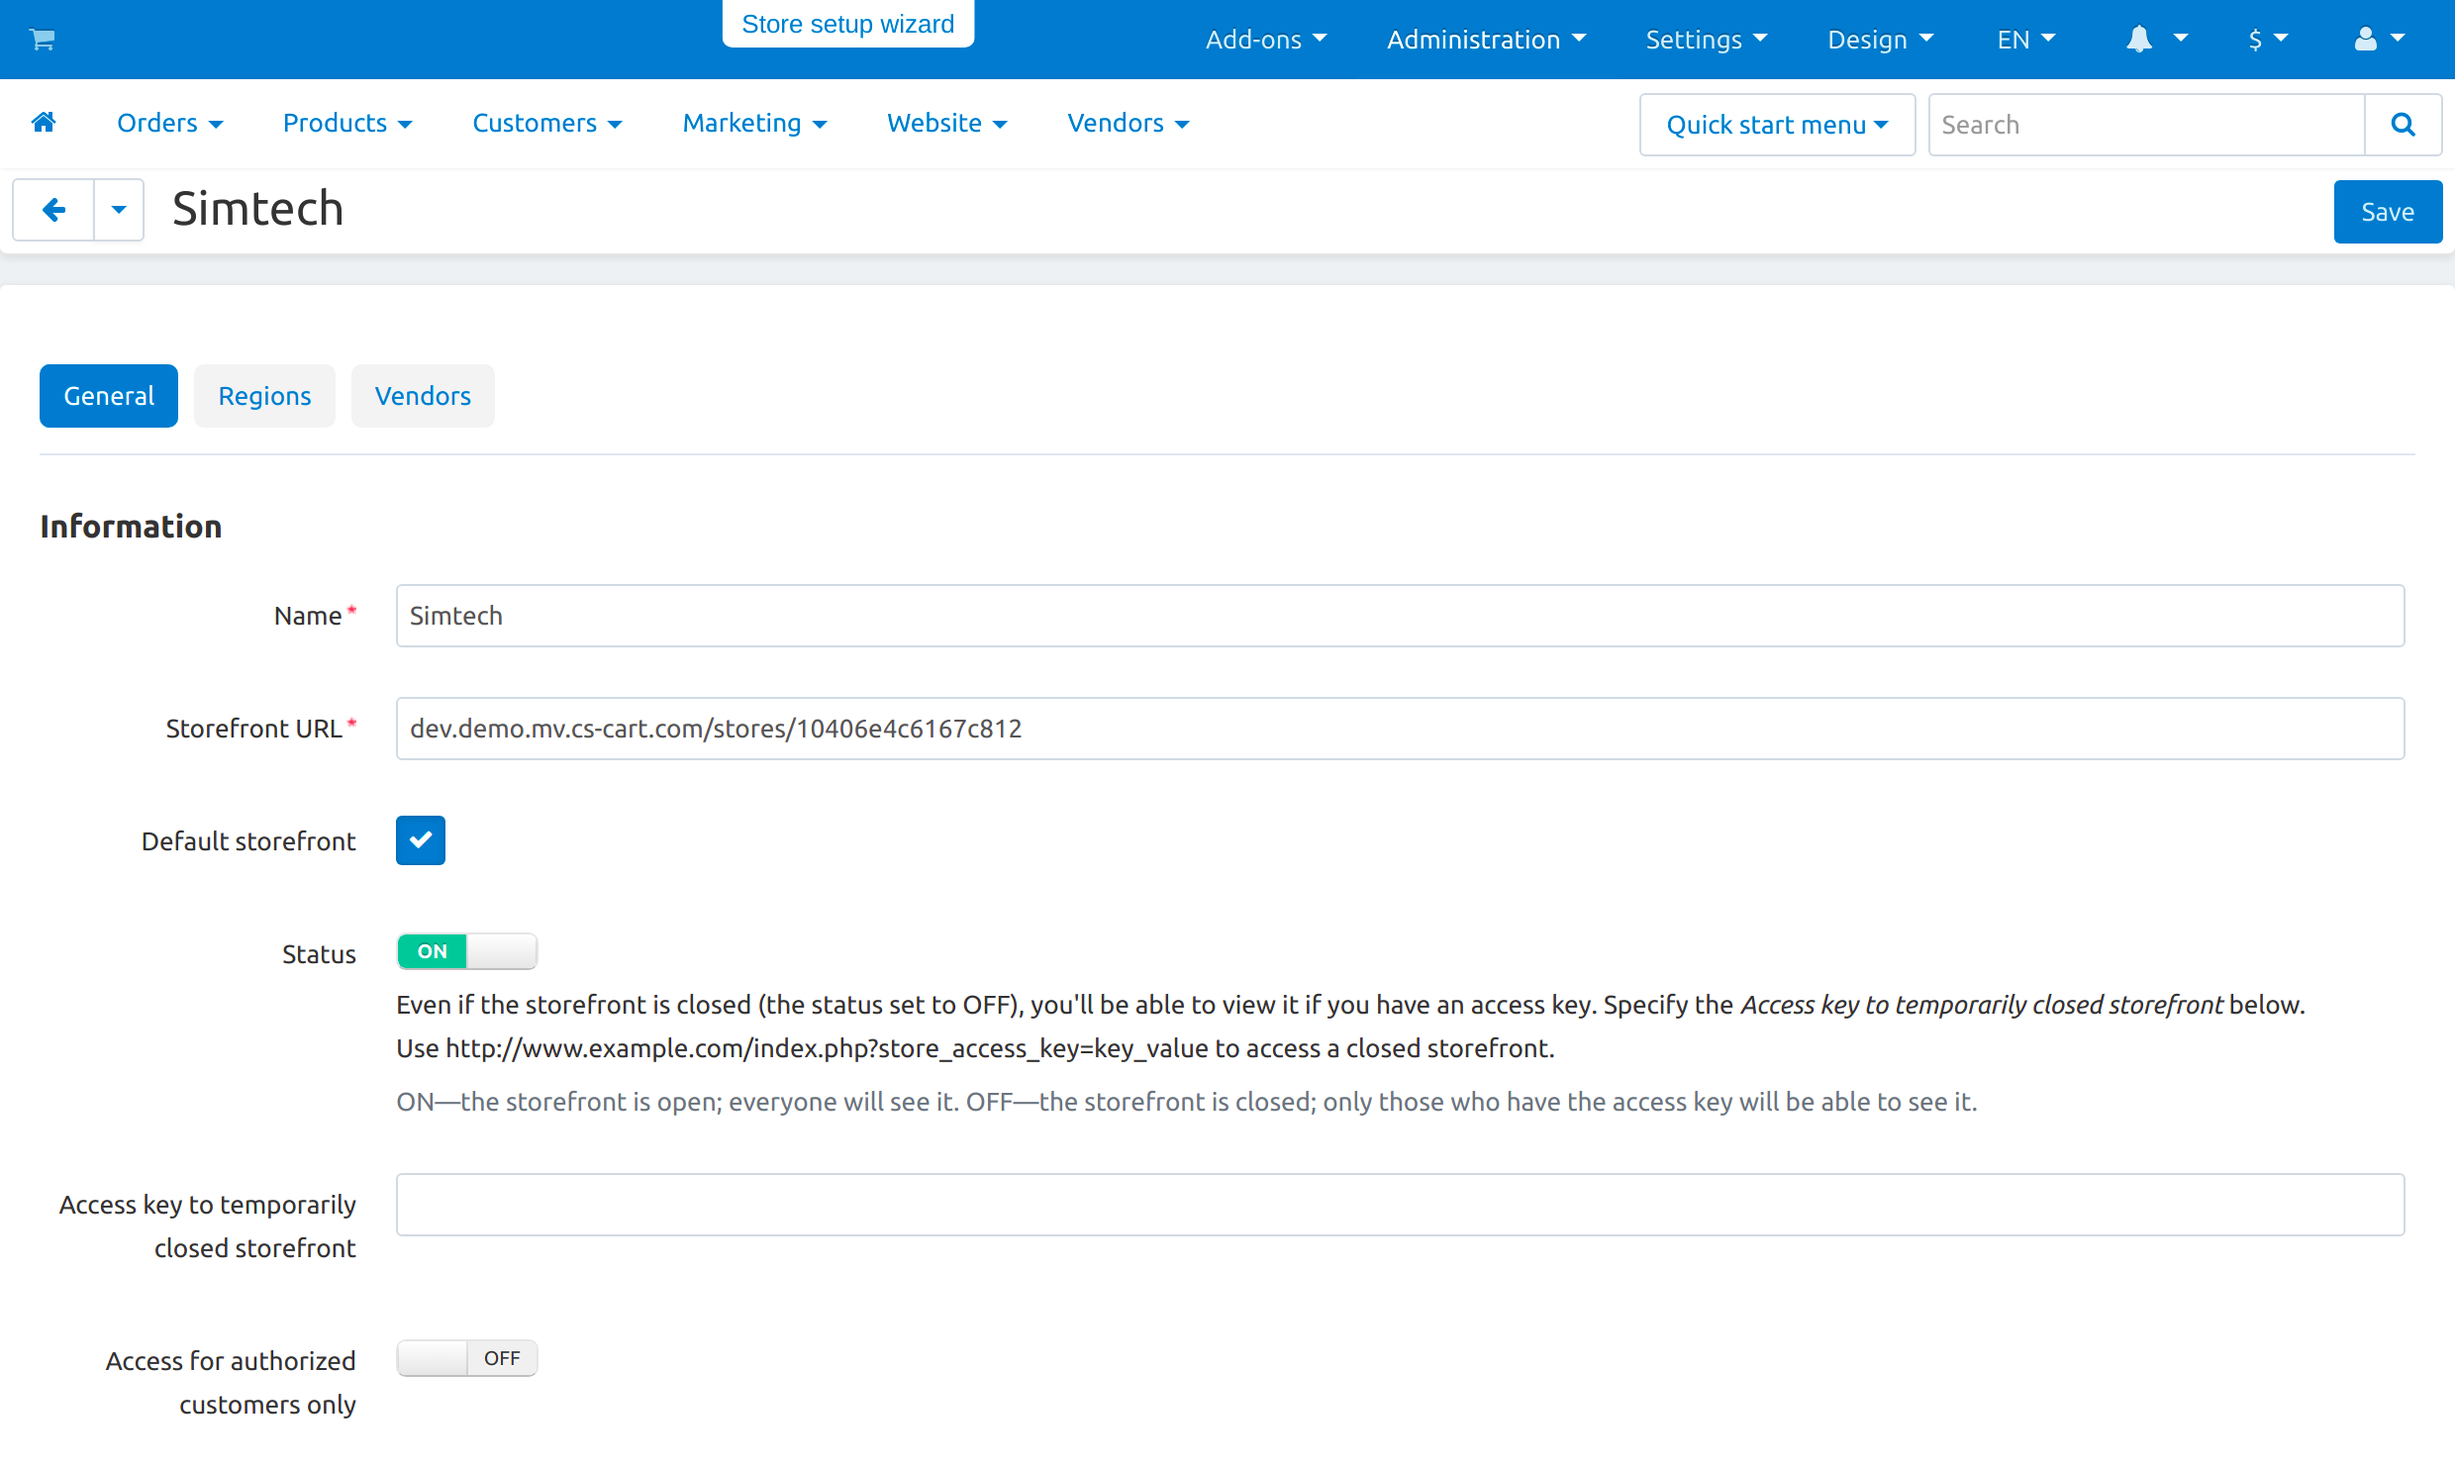
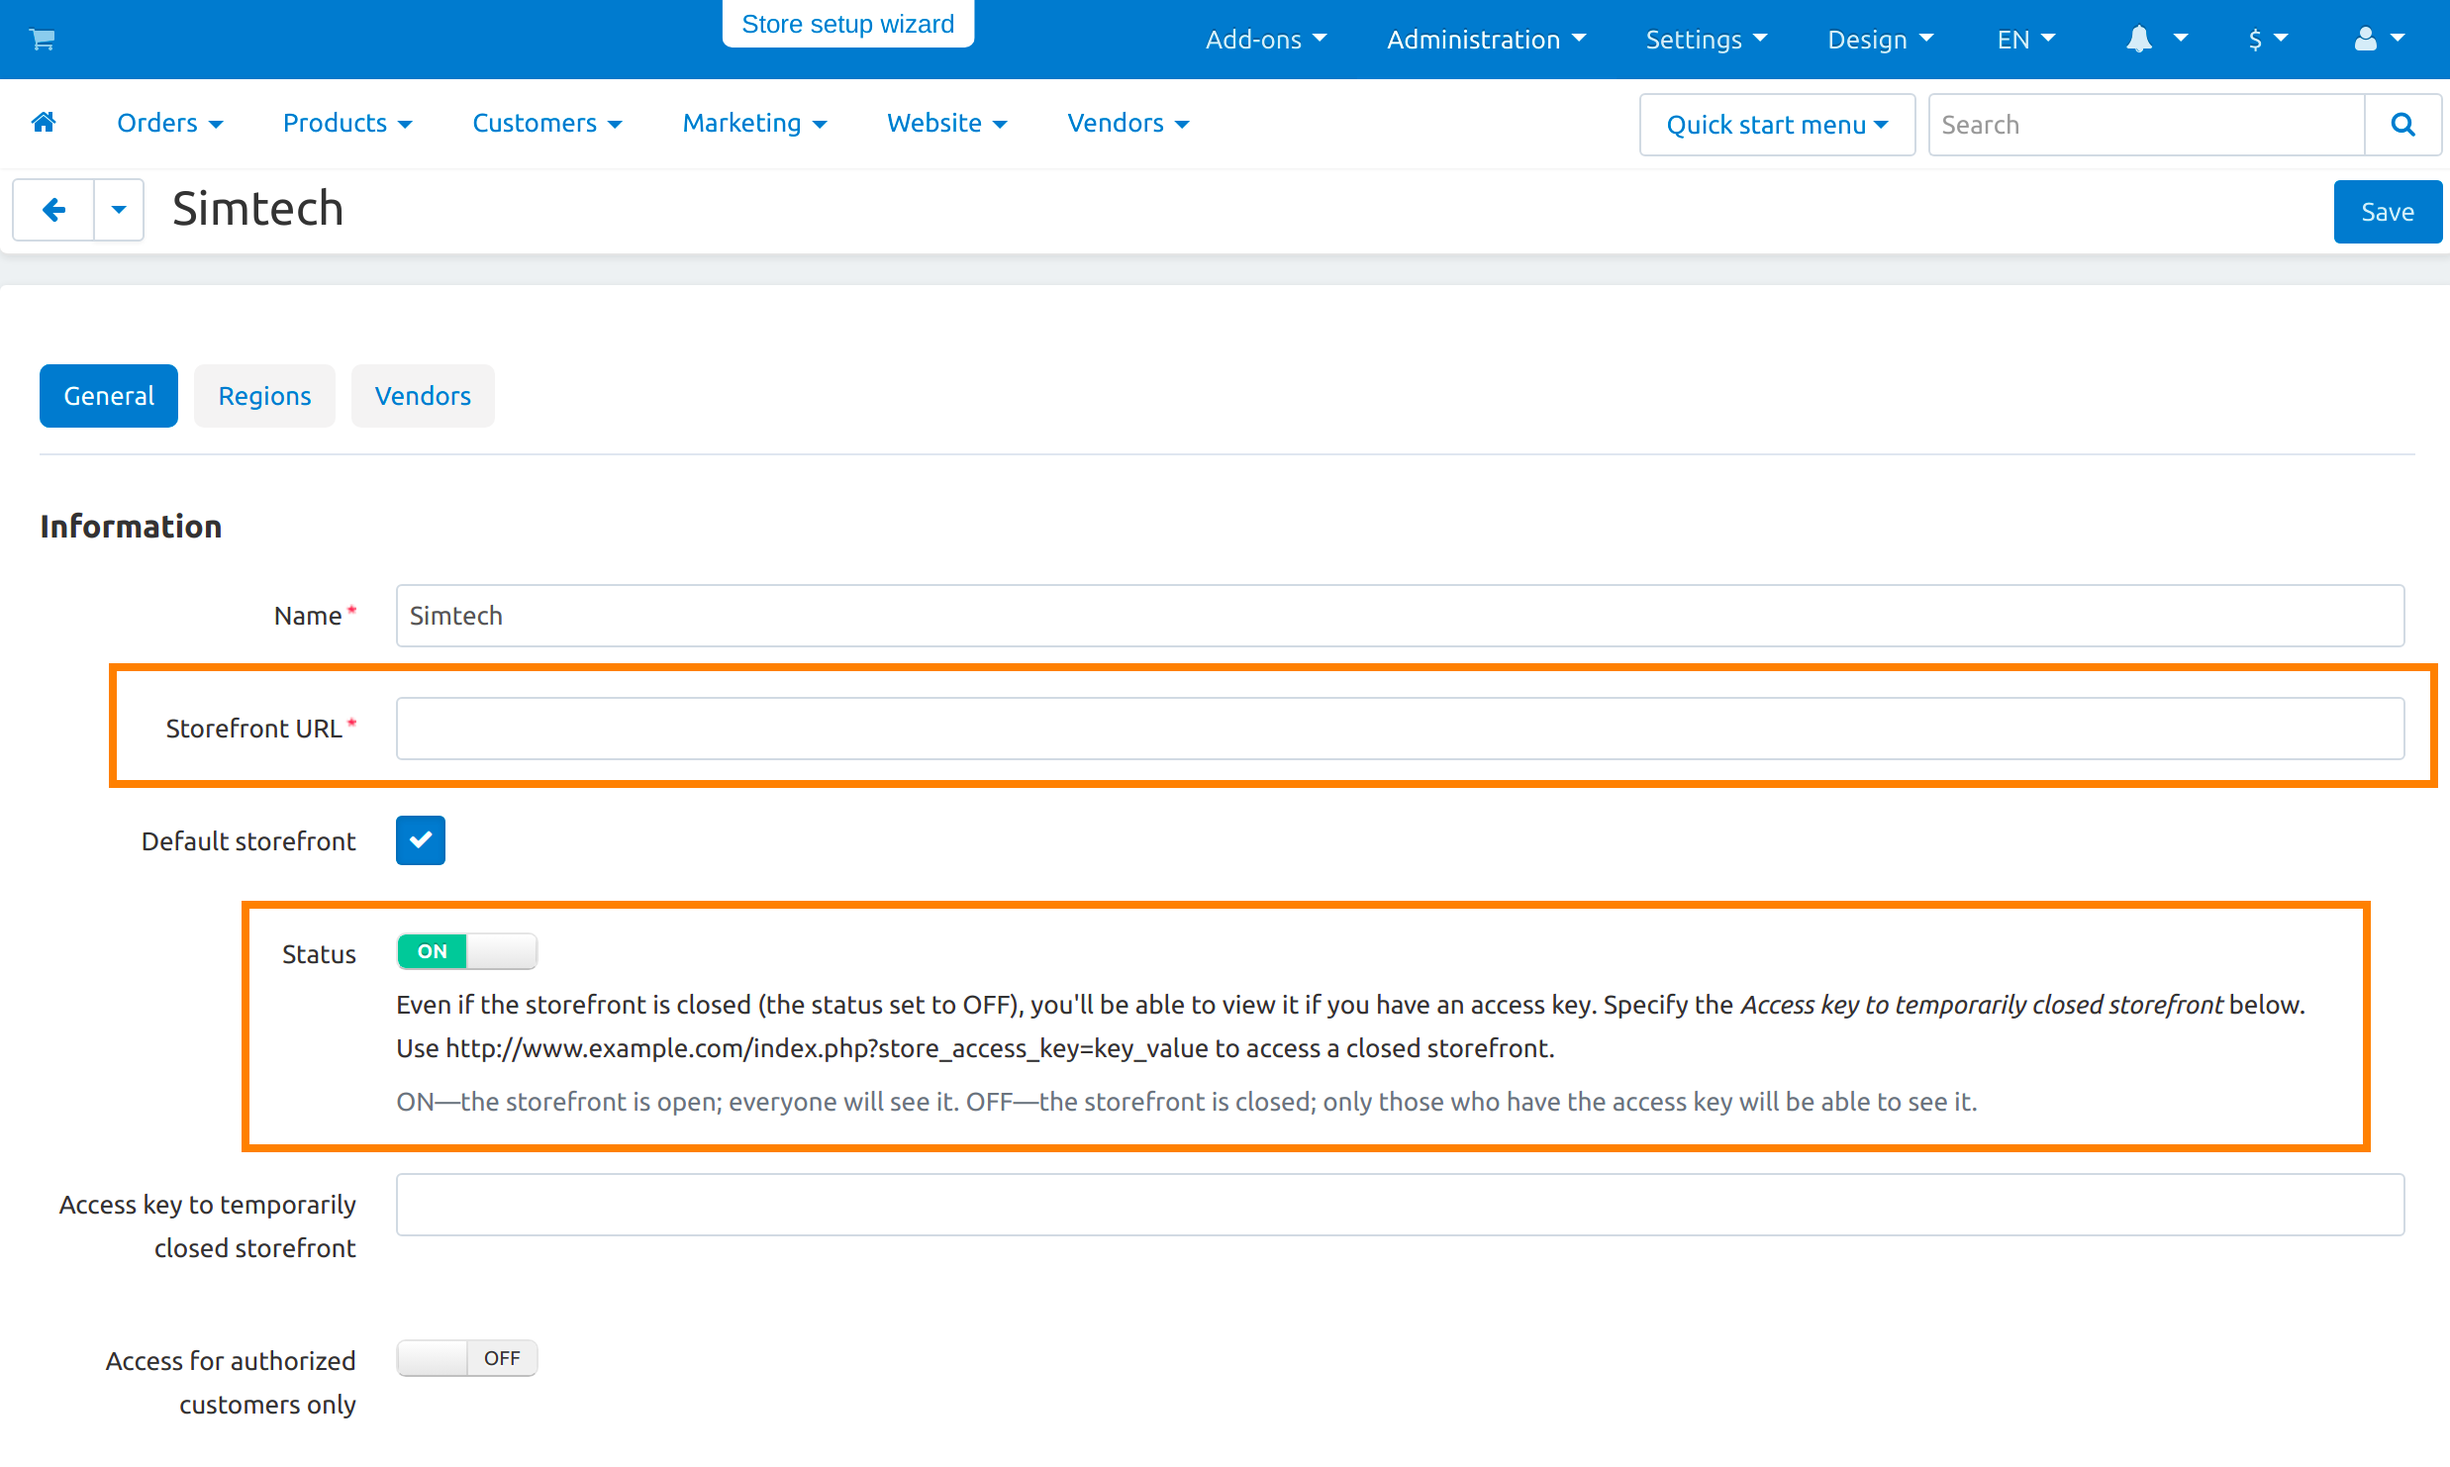
En: Install: Useful Info: Article about Copying store to subdirectory… updated

diff --git a/en/install/useful_info/copying_store_to_subdirectory.rst b/en/install/useful_info/copying_store_to_subdirectory.rst
@@ -129,7 +129,7 @@ Step 4. Finishing Touches
 
 4.1. Clear cache of the copied store by deleting the **cache** folder in the **var** directory of your new CS-Cart copy. You can also clear cache in the administration panel in **Administration → Storage → Clear cache**.
 
-4.2. Update the storefront URLs of the copied store. To do that, log in to the administration panel, which is now located at *yourdomain/subdirectory/admin.php*. On the **Administration → Stores page**, click your store. On the store editing page, change the storefront URL. Don’t forget to close the storefront on the **Settings → General** page:
+4.2. Update the storefront URLs of the copied store. To do that, log in to the administration panel, which is now located at *yourdomain/subdirectory/admin.php*. On the **Administration → Storefronts** page, click your store. On the **General** tab of the store editing page, change the storefront URL and close the storefront:
 
 .. image:: img/copying_store_to_subdirectory/storefronturl.png
     :align: center
